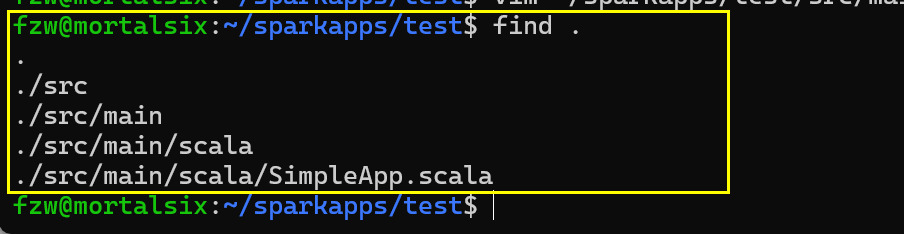
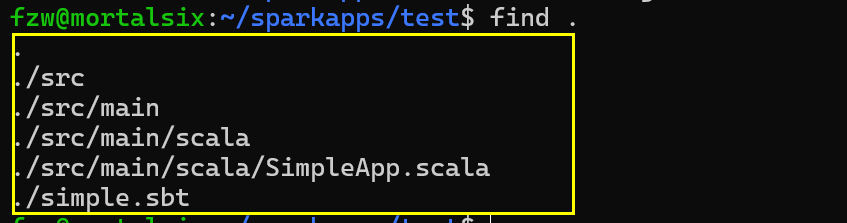
2

Changed region(s): [[0.0, 0.0, 1.0, 1.0], [0.3684, 0.9955, 0.3991, 1.0]]

diff --git a/Lab7/实验7 Spark初级编程实践.md b/Lab7/实验7 Spark初级编程实践.md
@@ -15,6 +15,12 @@
 
 ### 2. 使用 Spark Shell 读取本地文件
 
+启动 spark-shell：
+```bash
+cd /usr/local/spark
+./bin/spark-shell
+```
+
 在 spark-shell 中读取本地文件 /tmp/test.txt 并统计出文件的行数
 
 参考代码（spark-shell）：
@@ -37,11 +43,83 @@ textFile.count()
 
 编写独立应用程序，读取 HDFS 文件 /test/test.txt ，然后统计出文件的行数；通过 sbt 将整个应用程序编译打包成 JAR 包，并将生成的 JAR 包通过 spark-submit 提交到 Spark 中运行。
 
-参考代码（spark-shell）：
+参考过程：
+
+(1) 创建 scala 应用程序目录和程序文件
+```bash
+mkdir -p ~/sparkapps/readhdfsfile
+mkdir -p ~/sparkapps/readhdfsfile/src/main/scala
+touch ~/sparkapps/readhdfsfile/src/main/scala/SparkReadHdfsFile.scala
+``` 
+
+(2) 编写 scala 程序：
+
+参考 scala 程序代码：
 ```scala
-val textFile=sc.textFile("hdfs://localhost:9000/test/test.txt")
-textFile.count()
+/* SparkReadHdfsFile.scala */
+import org.apache.spark.SparkContext
+import org.apache.spark.SparkContext._
+import org.apache.spark.SparkConf
+ 
+object ReadHdfsFileApp {
+    def main(args: Array[String]) {
+        val hdfsFile = "hdfs://localhost:9000/test.txt"
+        val conf = new SparkConf().setAppName("Read HDFS File Test")
+        val sc = new SparkContext(conf)
+        val fileData = sc.textFile(hdfsFile, 2)
+        val num = fileData.count()
+        printf("The num of this file is %d", num)
+    }
+}
 ```
+
+(3) 创建sbt文件
+```bash
+cd ~/sparkapps/readhdfsfile  # 进入readhdfsfile项目目录
+touch simple.sbt # 创建 sbt 文件
+```
+
+向 `simple.sbt` 文件添加如下内容：
+```
+name := "Simple Project"
+version := "1.0"
+scalaVersion := "2.12.17"
+libraryDependencies += "org.apache.spark" %% "spark-core" % "3.4.0"
+```
+
+为保证sbt能正常运行，先使用命令检查应用程序的目录结构：
+
+```bash
+cd ~/sparkapps/readhdfsfile
+find .
+```
+
+如果文件结构和下图类似（注意，程序文件名可能会不同）：
+
+![Alt text](imgs/spark%E5%BA%94%E7%94%A8%E7%9B%AE%E5%BD%95%E7%BB%93%E6%9E%84.png)
+
+(4) 使用sbt程序执行编译打包：
+
+```bash
+/usr/local/sbt/sbt package
+```
+
+生成的 jar 包位置在 `~/sparkapps/readhdfsfile/target/scala-2.12/simple-project_2.12-1.0.jar`
+
+(5) 使用 spark-submit 运行程序
+
+注意：在提交之前一定要确保 hdfs 服务已经启动，且 hdfs 中有文本文件 `/test.txt` 
+
+命令如下：
+
+```bash
+/usr/local/spark/bin/spark-submit --class "ReadHdfsFileApp" ~/sparkapps/readhdfsfile/target/scala-2.12/simple-project_2.12-1.0.jar 2>&1 | grep "The num of this file is"
+```
+
+结果如下：
+
+![Alt text](imgs/spark%E6%B5%8B%E8%AF%95%E5%BA%94%E7%94%A8%E8%BE%93%E5%87%BA%E7%BB%93%E6%9E%9C1.png)
+
 
 ### 5. 编写 Spark 独立应用程序实现数据去重
 
@@ -82,6 +160,26 @@ textFile.count()
 20210506 x
 ```
 
+参考 scala 程序代码：
+
+```scala
+import org.apache.spark.SparkContext
+import org.apache.spark.SparkContext._
+import org.apache.spark.SparkConf
+import org.apache.spark.HashPartitioner
+ 
+object RemDup {
+    def main(args: Array[String]) {
+        val conf = new SparkConf().setAppName("RemDup")
+        val sc = new SparkContext(conf)
+        val dataFile = "file:///home/fzw/data"
+        val data = sc.textFile(dataFile,2)
+        val res = data.filter(_.trim().length>0).map(line=>(line.trim,"")).partitionBy(new HashPartitioner(1)).groupByKey().sortByKey().keys
+        res.saveAsTextFile("result")
+    }
+}
+```
+
 ### 6. 编写 Spark 独立应用程序实现求平均值
 
 每个输入文件表示班级学生某个学科的成绩，每行内容由两个字段组成，第一个是学生名字，第二个是学生的成绩；编写 Spark 独立应用程序求出所有学生的平均成绩，并输出到一个新文件中。下面是输入文件和输出文件的一个样例，可供参考。
@@ -120,4 +218,35 @@ Python 成绩：
 小新 88.33
 小明 89.67
 小丽 88.67
+```
+
+参考 scala 程序代码：
+
+```scala
+import org.apache.spark.SparkContext
+import org.apache.spark.SparkContext._
+import org.apache.spark.SparkConf
+import org.apache.spark.HashPartitioner
+ 
+object AvgScore {
+    def main(args: Array[String]) {
+        val conf = new SparkConf().setAppName("AvgScore")
+        val sc = new SparkContext(conf)
+        val dataFile = "file:///home/hadoop/data"
+        val data = sc.textFile(dataFile,3)
+ 
+       val res = data.filter(_.trim().length>0).map(line=>(line.split(" ")(0).trim(),line.split(" ")(1).trim().toInt)).partitionBy(new HashPartitioner(1)).groupByKey().map(x => {
+       var n = 0
+       var sum = 0.0
+       for(i <- x._2){
+        sum = sum + i
+        n = n +1
+       }
+       val avg = sum/n
+       val format = f"$avg%1.2f".toDouble
+       (x._1,format)
+     })
+       res.saveAsTextFile("result")
+    }
+}
 ```
